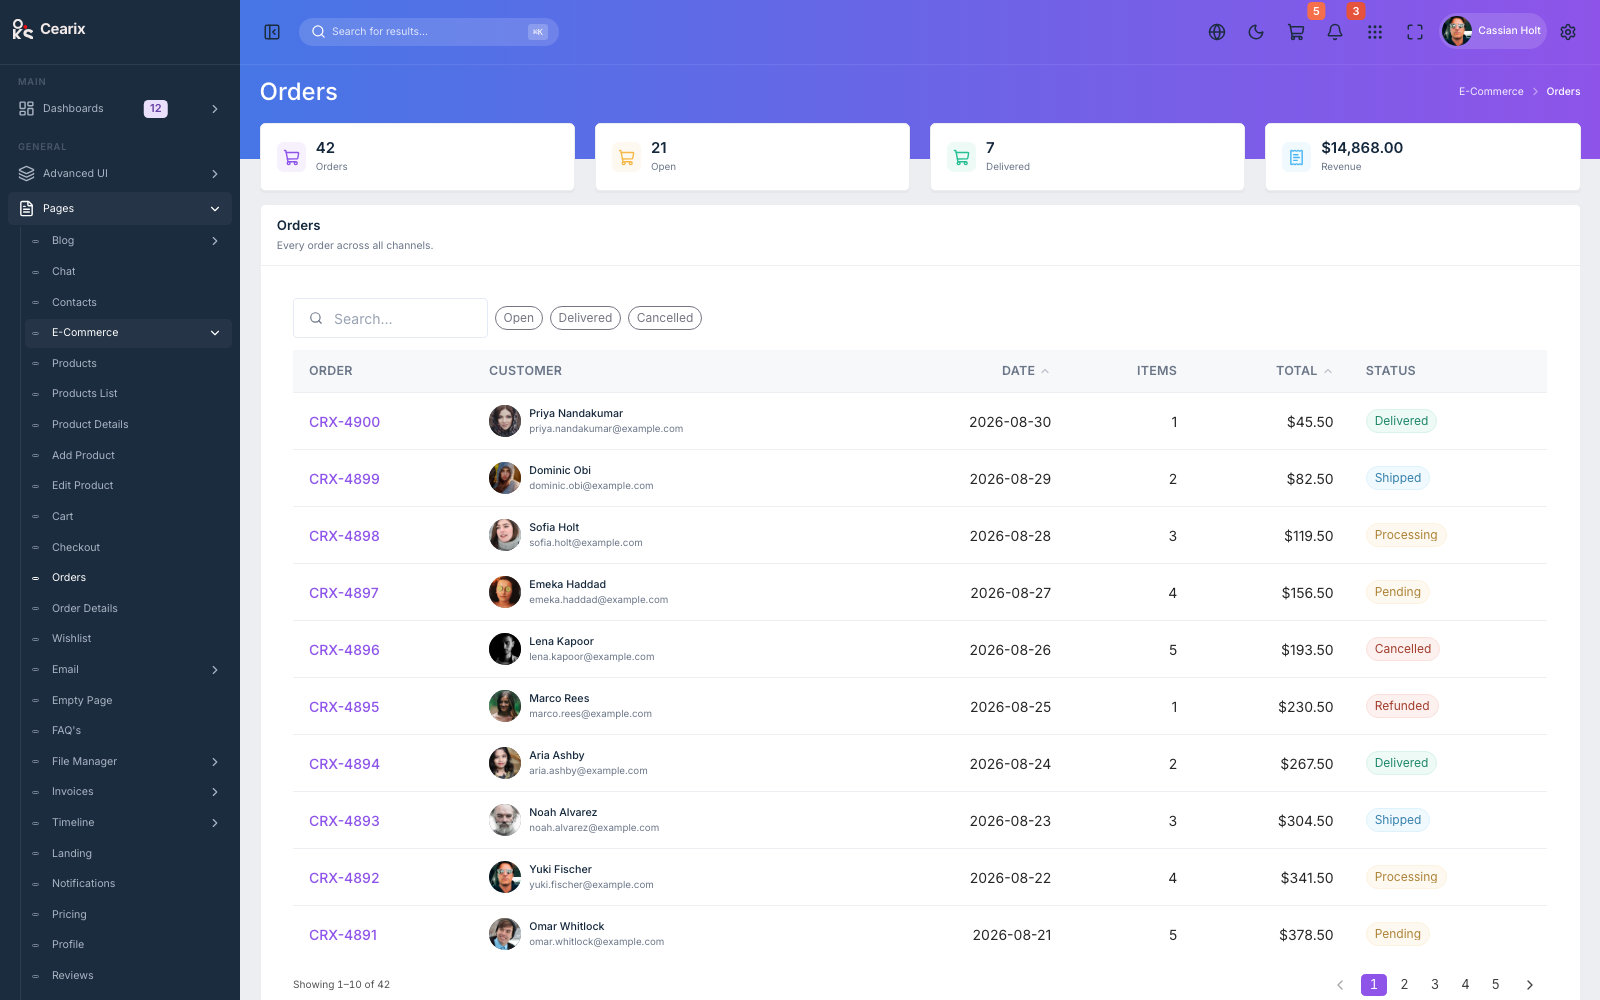
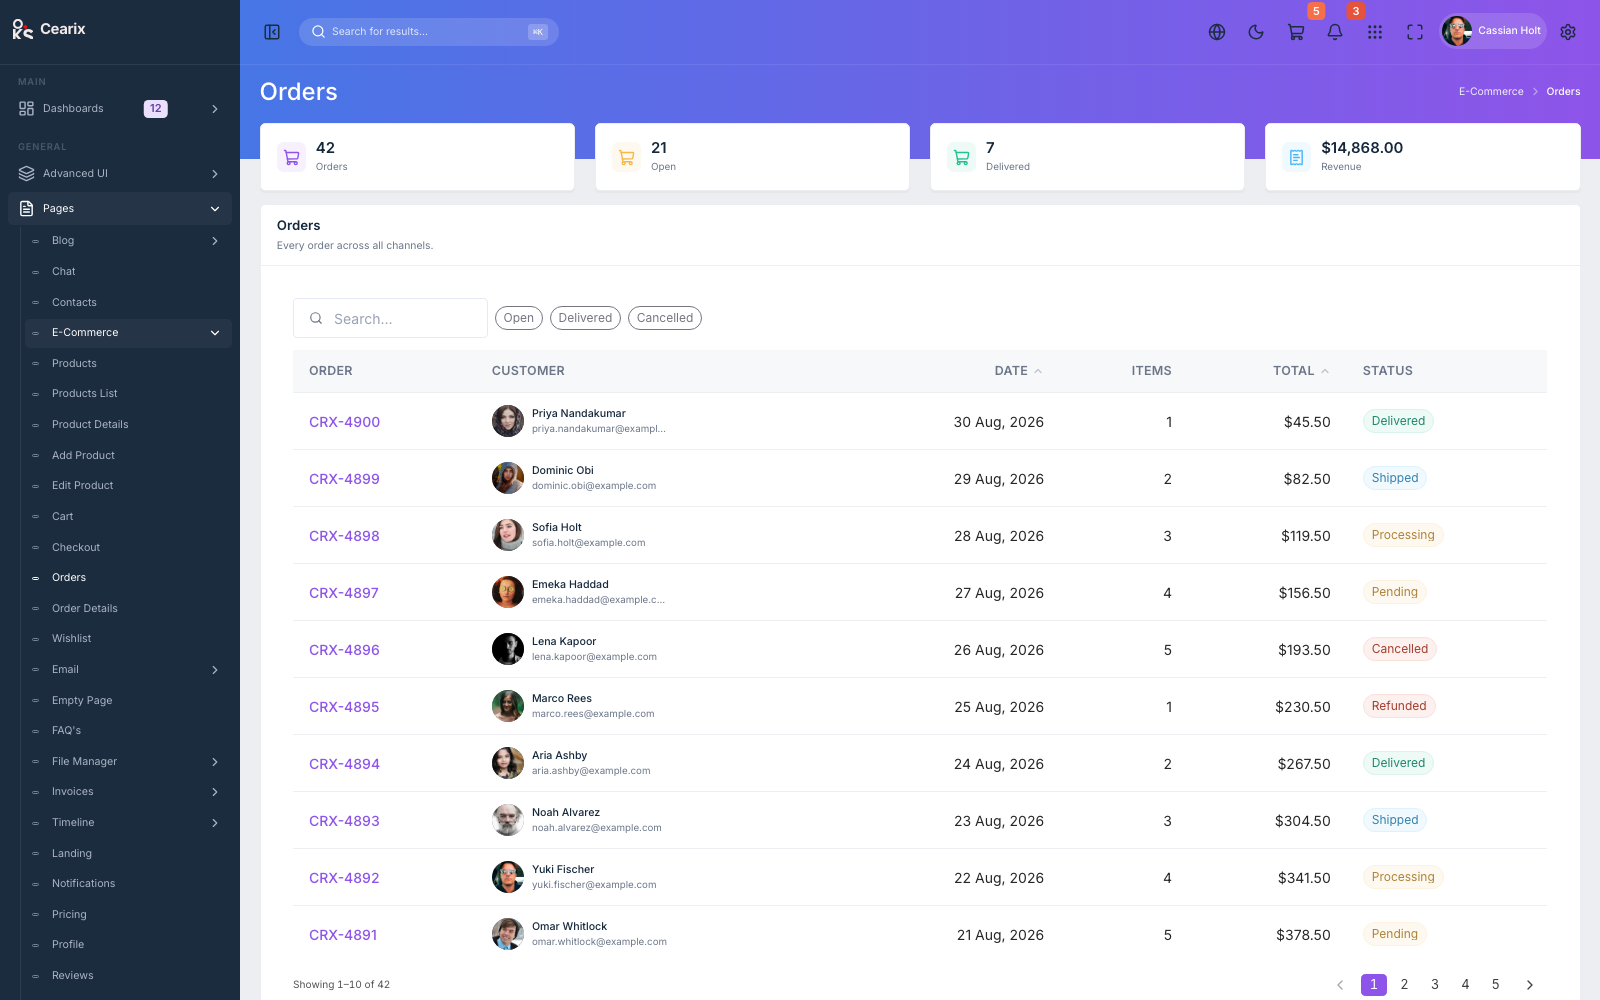
Stop table cells wrapping; format dates as "02 Sept, 2026"
- .oksTable cells are now white-space:nowrap — the table scrolls inside its
  own container instead of breaking IDs / names / dates onto two lines
- New src/lib/date.js: fmtDate → "02 Sept, 2026", fmtDateTime →
  "11:20 AM - 02 Sept, 2026" / "14:24 - 02 Sept, 2026"
- Applied across list, dashboard, detail tables and the activity feed

diff --git a/src/data/lists.jsx b/src/data/lists.jsx
@@ -1,6 +1,7 @@
 import { Link } from 'react-router-dom'
 import { Package, ShoppingCart, ReceiptText, Layers } from 'lucide-react'
 import { StatusChip, EntityCell, TrendChip } from '../Components/ui'
+import { fmtDate } from '../lib/date'
 import { products, orders, invoices, team, reviews, wishlist } from './catalog'
 
 const money = (n) => `$${n.toLocaleString(undefined, { minimumFractionDigits: 2, maximumFractionDigits: 2 })}`
@@ -69,7 +70,7 @@ export const LIST_CONFIGS = {
         <Link to="/apps/ecommerce/order-details" className="font-medium" style={{ color: 'var(--app-primary)' }}>{r.id}</Link>
       ) },
       { key: 'customer', header: 'Customer', render: (r) => <EntityCell name={r.customer} sub={r.email} seed={r.customer} /> },
-      { key: 'date', header: 'Date', align: 'end', sortable: true },
+      { key: 'date', header: 'Date', align: 'end', sortable: true, render: (r) => fmtDate(r.date) },
       { key: 'items', header: 'Items', align: 'end' },
       { key: 'total', header: 'Total', align: 'end', sortable: true, render: (r) => money(r.total) },
       { key: 'status', header: 'Status', render: (r) => <StatusChip status={r.status} /> },
@@ -96,7 +97,7 @@ export const LIST_CONFIGS = {
     columns: [
       { key: 'name', header: 'Product', render: (r) => <EntityCell name={r.name} sub={r.category} company /> },
       { key: 'price', header: 'Price', align: 'end', sortable: true, render: (r) => `$${r.price}` },
-      { key: 'addedOn', header: 'Added', align: 'end', sortable: true },
+      { key: 'addedOn', header: 'Added', align: 'end', sortable: true, render: (r) => fmtDate(r.addedOn) },
       { key: 'status', header: 'Availability', render: (r) => <StatusChip status={r.stock > 0 ? 'Active' : 'Cancelled'} /> },
     ],
     rows: wishlist,
@@ -112,8 +113,8 @@ export const LIST_CONFIGS = {
         <Link to="/pages/invoice/details" className="font-medium" style={{ color: 'var(--app-primary)' }}>{r.id}</Link>
       ) },
       { key: 'client', header: 'Client', render: (r) => <EntityCell name={r.client} sub={r.contact} company /> },
-      { key: 'issued', header: 'Issued', align: 'end', sortable: true },
-      { key: 'due', header: 'Due', align: 'end', sortable: true },
+      { key: 'issued', header: 'Issued', align: 'end', sortable: true, render: (r) => fmtDate(r.issued) },
+      { key: 'due', header: 'Due', align: 'end', sortable: true, render: (r) => fmtDate(r.due) },
       { key: 'amount', header: 'Amount', align: 'end', sortable: true, render: (r) => money(r.amount) },
       { key: 'status', header: 'Status', render: (r) => <StatusChip status={r.status} /> },
     ],
@@ -196,7 +197,7 @@ export const LIST_CONFIGS = {
       { key: 'id', header: 'Order' },
       { key: 'customer', header: 'Customer', render: (r) => <EntityCell name={r.customer} sub={r.email} seed={r.customer} /> },
       { key: 'channel', header: 'Channel' },
-      { key: 'date', header: 'Date', align: 'end', sortable: true },
+      { key: 'date', header: 'Date', align: 'end', sortable: true, render: (r) => fmtDate(r.date) },
       { key: 'total', header: 'Total', align: 'end', sortable: true, render: (r) => money(r.total) },
       { key: 'status', header: 'Status', render: (r) => <StatusChip status={r.status} /> },
     ],

diff --git a/src/data/details.jsx b/src/data/details.jsx
@@ -1,3 +1,4 @@
+import { fmtDate, fmtDateTime } from '../lib/date'
 import { orders, products, invoices } from './catalog'
 
 const money = (n) => `$${n.toLocaleString(undefined, { minimumFractionDigits: 2, maximumFractionDigits: 2 })}`
@@ -15,7 +16,7 @@ export const DETAIL_CONFIGS = {
         title: 'Summary',
         rows: [
           { label: 'Order number', value: order.id },
-          { label: 'Placed', value: order.date },
+          { label: 'Placed', value: fmtDate(order.date) },
           { label: 'Channel', value: order.channel },
           { label: 'Items', value: order.items },
           { label: 'Status', value: order.status },
@@ -49,10 +50,10 @@ export const DETAIL_CONFIGS = {
       },
     ],
     timeline: [
-      { title: 'Order placed', time: order.date, color: 'primary' },
-      { title: 'Payment captured', time: order.date, color: 'success' },
-      { title: 'Packed', time: '2026-08-29', color: 'info' },
-      { title: 'Handed to carrier', time: '2026-08-30', color: 'warning' },
+      { title: 'Order placed', time: fmtDateTime(order.date + 'T09:04'), color: 'primary' },
+      { title: 'Payment captured', time: fmtDateTime(order.date + 'T09:05'), color: 'success' },
+      { title: 'Packed', time: fmtDateTime('2026-08-29T14:20'), color: 'info' },
+      { title: 'Handed to carrier', time: fmtDateTime('2026-08-30T08:10', { time24: true }), color: 'warning' },
     ],
   },
 
@@ -107,8 +108,8 @@ export const DETAIL_CONFIGS = {
         title: 'Invoice',
         rows: [
           { label: 'Invoice number', value: invoice.id },
-          { label: 'Issued', value: invoice.issued },
-          { label: 'Due', value: invoice.due },
+          { label: 'Issued', value: fmtDate(invoice.issued) },
+          { label: 'Due', value: fmtDate(invoice.due) },
           { label: 'Status', value: invoice.status },
           { label: 'Amount due', value: money(invoice.amount) },
         ],
@@ -143,7 +144,7 @@ export const DETAIL_CONFIGS = {
           { label: 'Type', value: 'Figma document' },
           { label: 'Size', value: '48.2 MB' },
           { label: 'Owner', value: 'Wren Ashby' },
-          { label: 'Modified', value: '2026-08-28' },
+          { label: 'Modified', value: fmtDate('2026-08-28') },
           { label: 'Shared with', value: '6 people' },
         ],
       },

diff --git a/src/data/sales.js b/src/data/sales.js
@@ -34,12 +34,14 @@ export const channelSplit = [
   { label: 'Email', value: 6 },
 ]
 
+import { fmtDateTime } from '../lib/date'
+
 export const recentActivity = [
-  { title: 'Order CRX-4821 marked delivered', time: '9m ago', description: 'Fulfilment · Priya Nandakumar', color: 'success' },
-  { title: 'Refund issued for CRX-4790', time: '46m ago', description: 'Payments · $128.00', color: 'danger' },
-  { title: 'New wholesale enquiry', time: '2h ago', description: 'Sales · Meridian Supply Co.', color: 'primary' },
-  { title: 'Inventory low: Aster Table Lamp', time: '5h ago', description: '8 units remaining', color: 'warning' },
-  { title: 'Weekly payout settled', time: '1d ago', description: 'Finance · $14,206.55', color: 'info' },
+  { title: 'Order CRX-4821 marked delivered', time: fmtDateTime('2026-09-02T11:20'), description: 'Fulfilment · Priya Nandakumar', color: 'success' },
+  { title: 'Refund issued for CRX-4790', time: fmtDateTime('2026-09-02T10:42'), description: 'Payments · $128.00', color: 'danger' },
+  { title: 'New wholesale enquiry', time: fmtDateTime('2026-09-02T09:15'), description: 'Sales · Meridian Supply Co.', color: 'primary' },
+  { title: 'Inventory low: Aster Table Lamp', time: fmtDateTime('2026-09-01T16:30'), description: '8 units remaining', color: 'warning' },
+  { title: 'Weekly payout settled', time: fmtDateTime('2026-09-01T08:00', { time24: true }), description: 'Finance · $14,206.55', color: 'info' },
 ]
 
 export const topProducts = [

diff --git a/src/lib/date.js b/src/lib/date.js
@@ -1,0 +1,27 @@
+const MON = ['Jan', 'Feb', 'Mar', 'Apr', 'May', 'Jun', 'Jul', 'Aug', 'Sept', 'Oct', 'Nov', 'Dec']
+
+function toDate(input) {
+  return input instanceof Date ? input : new Date(input)
+}
+
+/** "02 Sept, 2026" */
+export function fmtDate(input) {
+  const d = toDate(input)
+  if (Number.isNaN(d.getTime())) return String(input ?? '')
+  return `${String(d.getDate()).padStart(2, '0')} ${MON[d.getMonth()]}, ${d.getFullYear()}`
+}
+
+/**
+ * "11:20 AM - 02 Sept, 2026"  (default)
+ * "14:24 - 02 Sept, 2026"     (time24: true)
+ */
+export function fmtDateTime(input, { time24 = false } = {}) {
+  const d = toDate(input)
+  if (Number.isNaN(d.getTime())) return String(input ?? '')
+  const h = d.getHours()
+  const m = String(d.getMinutes()).padStart(2, '0')
+  const time = time24
+    ? `${String(h).padStart(2, '0')}:${m}`
+    : `${((h % 12) || 12)}:${m} ${h < 12 ? 'AM' : 'PM'}`
+  return `${time} - ${fmtDate(d)}`
+}

diff --git a/src/data/dashboards.jsx b/src/data/dashboards.jsx
@@ -4,6 +4,7 @@ import {
   UserCheck, Clock, Target, Award, Heart, Flame, BookOpen,
 } from 'lucide-react'
 import { StatusChip, EntityCell } from '../Components/ui'
+import { fmtDate } from '../lib/date'
 
 const M = ['Jan', 'Feb', 'Mar', 'Apr', 'May', 'Jun', 'Jul', 'Aug', 'Sep', 'Oct', 'Nov', 'Dec']
 const wave = (base, amp, step, phase = 0) =>
@@ -265,7 +266,7 @@ export const DASHBOARD_CONFIGS = {
       columns: [
         { key: 'name', header: 'Project' },
         { key: 'lead', header: 'Lead', render: (r) => <EntityCell name={r.lead} seed={r.lead} size={26} /> },
-        { key: 'due', header: 'Due', align: 'end' },
+        { key: 'due', header: 'Due', align: 'end', render: (r) => fmtDate(r.due) },
         { key: 'progress', header: 'Progress', align: 'end', render: (r) => `${r.progress}%` },
         { key: 'status', header: 'Status', render: (r) => <StatusChip status={r.status} /> },
       ],

diff --git a/src/Pages/Dashboards/SalesDashboard.jsx b/src/Pages/Dashboards/SalesDashboard.jsx
@@ -9,6 +9,7 @@ import {
   ArrowDownRight,
 } from 'lucide-react'
 import { Button, Avatar } from 'oks-ui'
+import { fmtDate } from '../../lib/date'
 import {
   PageHeader,
   KpiCard,
@@ -180,7 +181,7 @@ export default function SalesDashboard() {
                 </Link>
               ) },
               { key: 'customer', header: 'Customer' },
-              { key: 'date', header: 'Date', align: 'end' },
+              { key: 'date', header: 'Date', align: 'end', render: (r) => fmtDate(r.date) },
               { key: 'total', header: 'Total', align: 'end', sortable: true, render: (r) => `$${r.total.toFixed(2)}` },
               { key: 'status', header: 'Status', render: (r) => <StatusChip status={r.status} /> },
             ]}

diff --git a/src/styles/theme.css b/src/styles/theme.css
@@ -456,6 +456,14 @@ body {
 .oksTable td {
   border-color: var(--app-border) !important;
 }
+/* Never wrap table cells onto multiple lines — the table scrolls inside its
+   own container instead (.cearix-tablewrap has overflow-x:auto). */
+.oksTable :is(td, th) {
+  white-space: nowrap;
+}
+.oksTable :is(td, th) .truncate {
+  max-width: 22ch;
+}
 
 /* Chart wrapper keeps line/area edge-to-edge */
 .cearix-chart {
